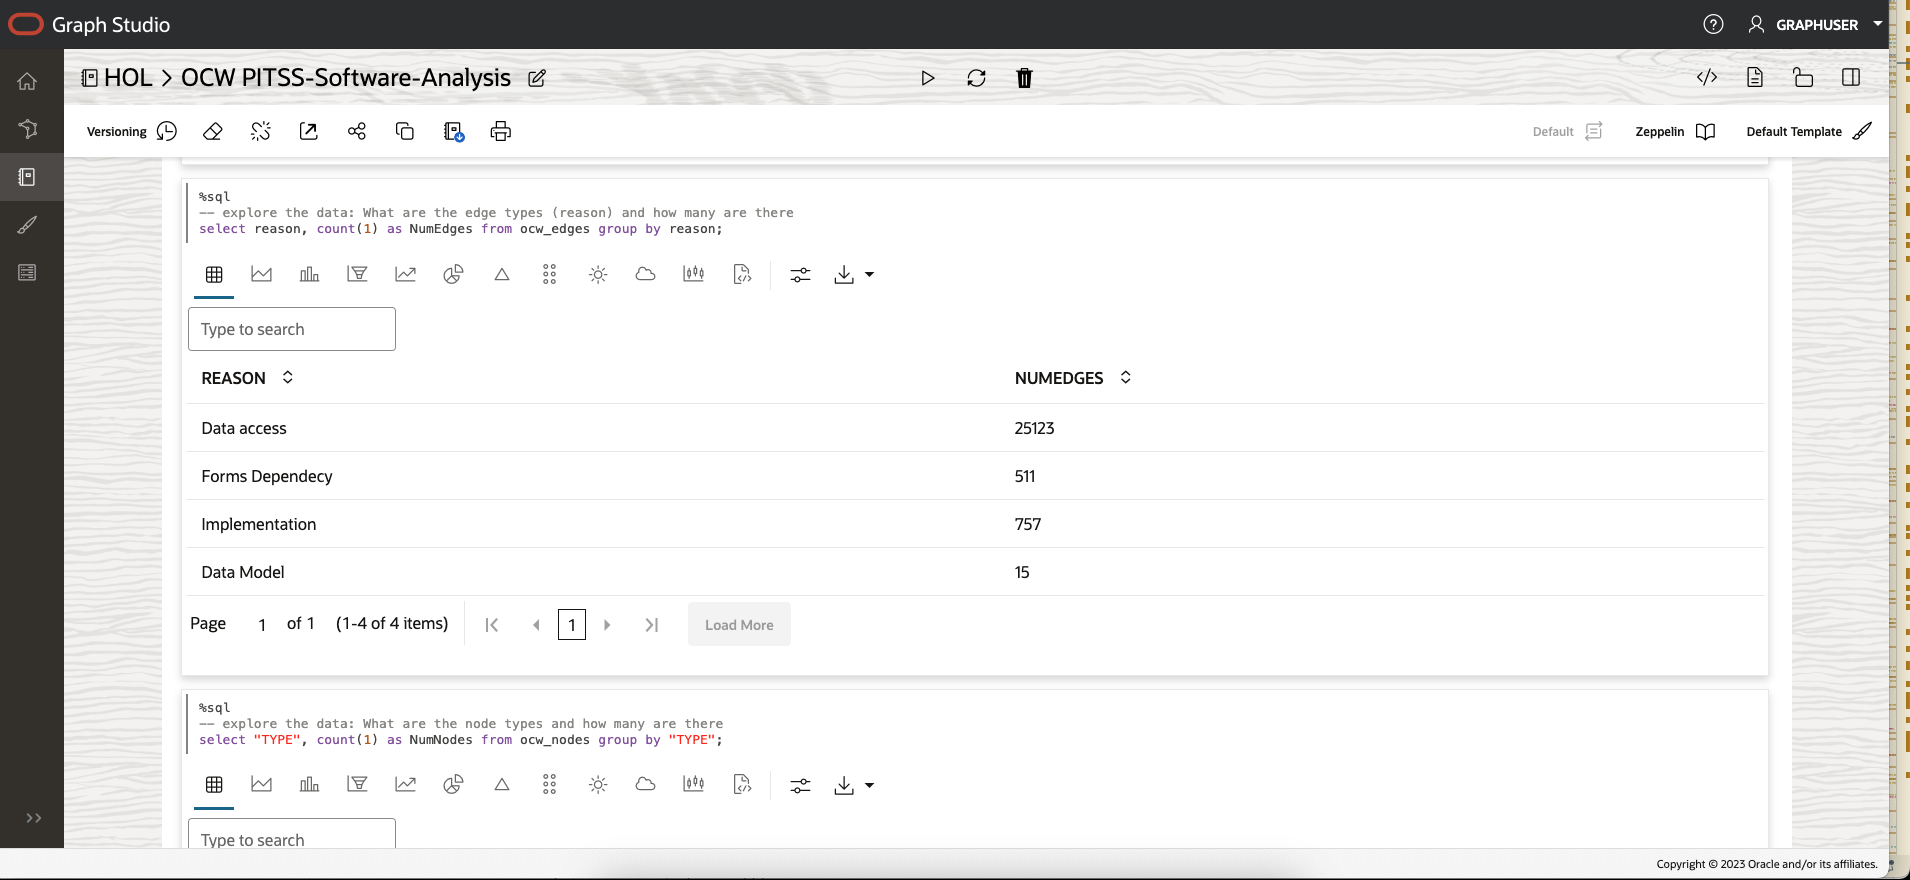
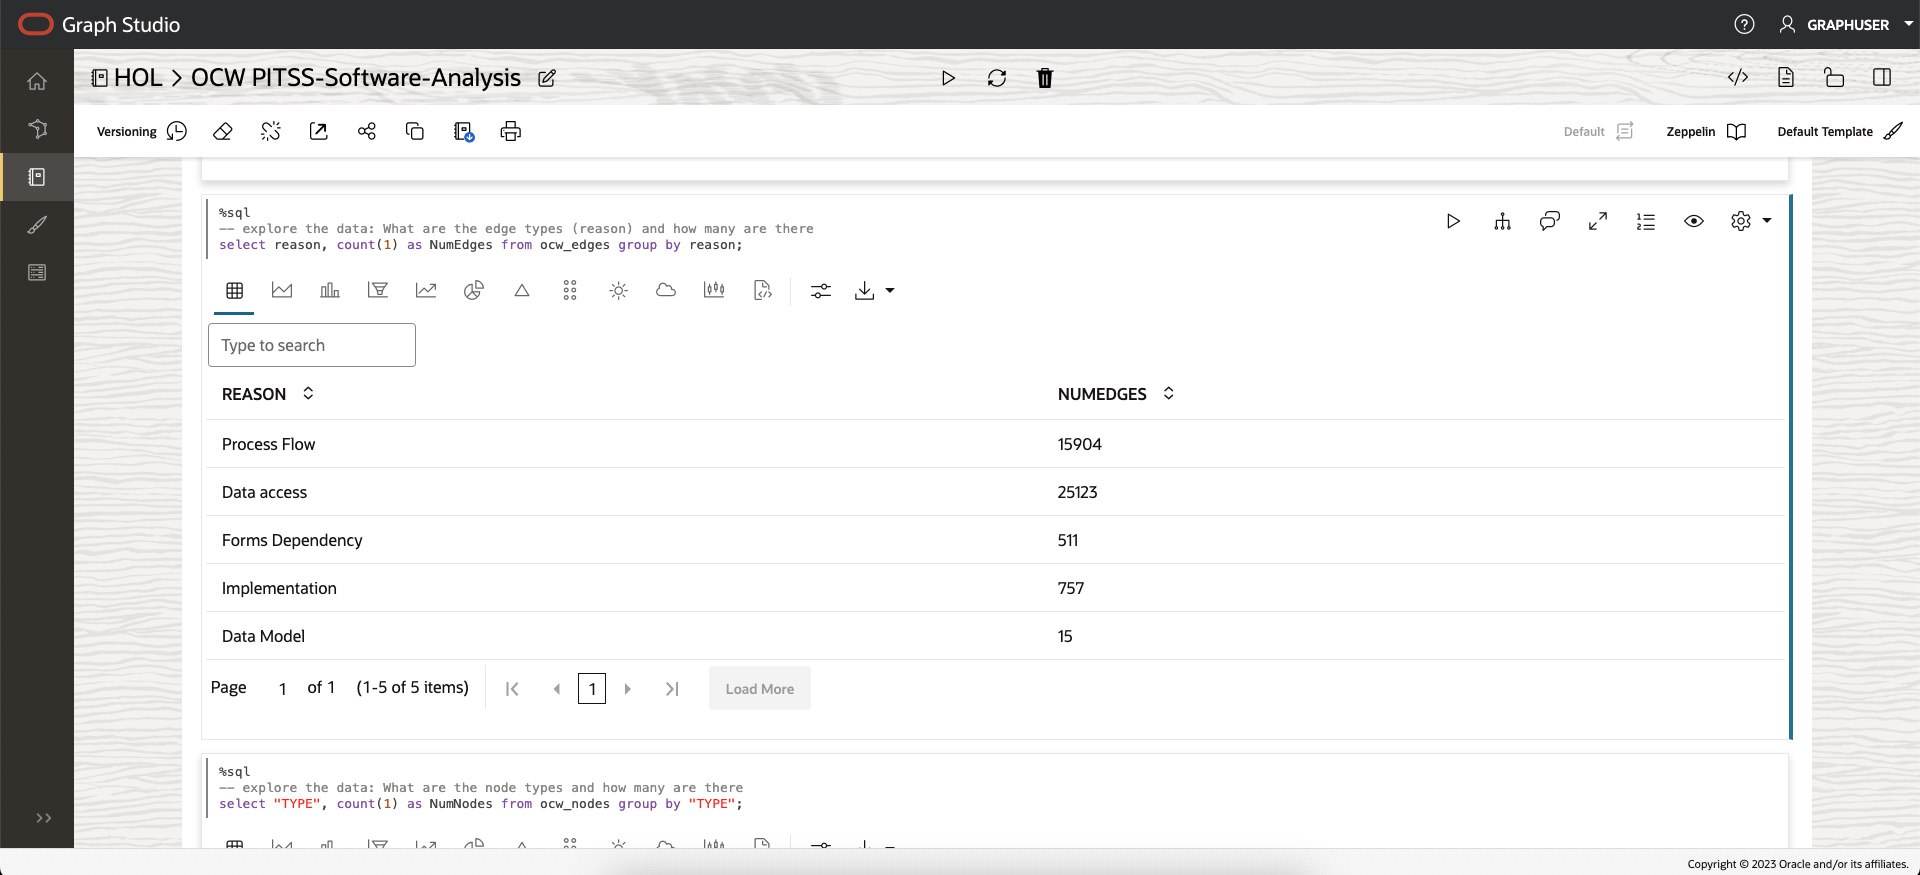
wms 11465. Fix manifest for sandbox. Fix typos (#64)
* wms id #11465

PITSS workshop for CTT3591 at OCW23

* wms 11465 - typos in manifest

Fix typo in manifest for Lab 5

* wms #11465 Self QA

Typos and formatting

* WMS 11465: Self QA

Formatting fixes, added walkthrough videos

* #11465 fix whskp folders

Added tenancy folder
Removed OCW23 link in manifests

* WMS 11465: Added company logo

Company logo, files dir under variables. updated manifests for new variables.json location.

* wms 11465: removed unused files

variables.md and vars-in-other-file

* wms 11465

OCW23 specific title

* wms 11465: add ocw23-sandbox

Prep for Green Button for HOL

* wms #11465

Fix manifest for sandbox.
Fix typos

diff --git a/software-analysis-with-pitsscon/introduction/introduction.md b/software-analysis-with-pitsscon/introduction/introduction.md
@@ -8,15 +8,15 @@
 
 **Contributor:** *Stephan LaRocca, Senior Business Development Director, PITSS Gmbh.* 
 
-This workshop covers one workflow, among several, in a software modernization project to migrate legacy Oracle Forms based applications to a newer low-code platform such as Oracle APEX using tools and methodolody developed by PITSS Gmbh. The complete workflow uses graph analytics to find clusters of code modules related to a business process, or common functionlaity such as logging or security, redundancy among code blocks, and unused or dead code. This workshop will focus on cluster determination.
+This workshop covers one workflow, among several, in a software modernization project to migrate legacy Oracle Forms based applications to a newer low-code platform such as Oracle APEX using tools and methodolody developed by PITSS Gmbh. The complete workflow uses graph analytics to find clusters of code modules related to a business process, or common functionality such as logging or security, redundancy among code blocks, and unused or dead code. This workshop will focus on cluster determination.
 
 
 
 ### Why Graph Analytics
 
-Graphs have uses in unexpected places, like analyzing software apps in hours instead of weeks. Software development is a complex ever-evolving process. The longer any software exists in the market the more complex it is to maintain. Development frameworks like Oracle Forms have been in the market for over 40 years and used to build mission critical applications over the years. Incremental development often results in increased complexity and higher maintenance costs or difficulty finding people with the necessary skills and knowledge of the framewrok. Hence there is a need for tools that semi-automate the analysis and modernization of legacy software.
+Graphs have uses in unexpected places, like analyzing software apps in hours instead of weeks. Software development is a complex ever-evolving process. The longer any software exists in the market the more complex it is to maintain. Development frameworks like Oracle Forms have been in the market for over 40 years and used to build mission critical applications over the years. Incremental development often results in increased complexity and higher maintenance costs or difficulty finding people with the necessary skills and knowledge of the framework. Hence there is a need for tools that semi-automate the analysis and modernization of legacy software.
 
-### What are some concerns with leagcy applications  
+### What are some concerns with legacy applications  
 
 - They do not differentiate between layers of responsibility and therefore are harder to maintain as distinct tasks. Data management, business logic, and user interfaces are often intertwined.
 - They combine functionality into one mass of code rather than components with specific functionality. Therefore, it becomes cumbersome to uptake newer technology for a specific function such as security or notifications or mobile app development. In today's modern software frameworks, these functionalities are handled by independent libraries or frameworks.
@@ -58,7 +58,7 @@ This lab assumes you have:
 * An Oracle Cloud tenancy with available credits
 * Some familiarity with SQL
 * Familiarity with Python is helpful
-* Familiarity Oracle Cloud Infrastructure is helpful
+* Familiarity with Oracle Cloud Infrastructure is helpful
 * Familiarity with Oracle Autonomous Database is helpful
 * Familiarity with interactive notebooks such as Zeppelin or Jupyter is helpful
 

diff --git a/software-analysis-with-pitsscon/query-and-analyze-graph/query-and-analyze-graph.md b/software-analysis-with-pitsscon/query-and-analyze-graph/query-and-analyze-graph.md
@@ -56,7 +56,7 @@ In this task, we will run the graph queries and use the settings tool to customi
 If the compute environment is not ready as yet and the code cannot be executed then you will see a blue line moving across the bottom of the paragraph to indicate that a background task is in progress.  
 
 
-1. The first few paragraphs contain SQL queries to explore the `OCW_NODES` and `OCW_EDGES` tables. Note that edges have a `REASON` attribute with possible values being {`Forms Dependecy`, `Data Model`, `Data access`, `Implementation`}. We will these when loading the subgraph to analyze.  
+1. The first few paragraphs contain SQL queries to explore the `OCW_NODES` and `OCW_EDGES` tables. Note that edges have a `REASON` attribute with possible values being {`Forms Dependency`, `Data Model`, `Data access`, `Implementation`, `Process Flow`}. We will these when loading the subgraph to analyze.  
 
   ![Edges types in the graph](images/notebook-edge-types.png "Edge types in the graph")
 
@@ -83,14 +83,14 @@ If the compute environment is not ready as yet and the code cannot be executed t
      ```
 
 
-3. Next, we look at the dependecny graph among Forms modules, i.e. the subset of edges with reaso='Forms Dependecy'.   
+3. Next, we look at the dependency graph among Forms modules, i.e. the subset of edges with reason='Forms Dependency'.   
 
      ```
      <copy>
      %pgql-pgx
      /* Query and visualize a subset (nodes and edges) of OCW_SOFTWARE_ANALYSIS */
      SELECT n,e,m FROM MATCH (n) -[e]-> (m) ON ocw_software_analysis 
-     where e.reason = 'Forms Dependecy'
+     where e.reason = 'Forms Dependency'
      </copy>
      ```
 

diff --git a/software-analysis-with-pitsscon/load-csv-files/load-csv-files.md b/software-analysis-with-pitsscon/load-csv-files/load-csv-files.md
@@ -33,16 +33,10 @@ Learn how to
  
 ## Task 2: Login as the graph-enabled user
 
-1. Login as the graph user (for example, `GRAPHUSER`) for your Autonomous Database instance. 
+1. Login as the graph user (for example, `GRAPHUSER`) for your Autonomous Database instance in the previous Lab. 
    
     ![Login as the graph-enabled user](./images/db-actions-graphuser-login.png "Login as the graph-enabled user")  
 
-    **Note:** *If necessary, do the following to create the user with the right roles and privileges*:  
-
-    - Log in to Database Actions as the **ADMIN** user for your Autonomous Database
-    - Select **Administration** and then **Database Users** from the navigation menu
-    - Click **Create User**
-    - Turn on the **Web-Access** and **Graph** buttons
 
 ## Task 3: Download the sample datasets from the ObjectStore
 
